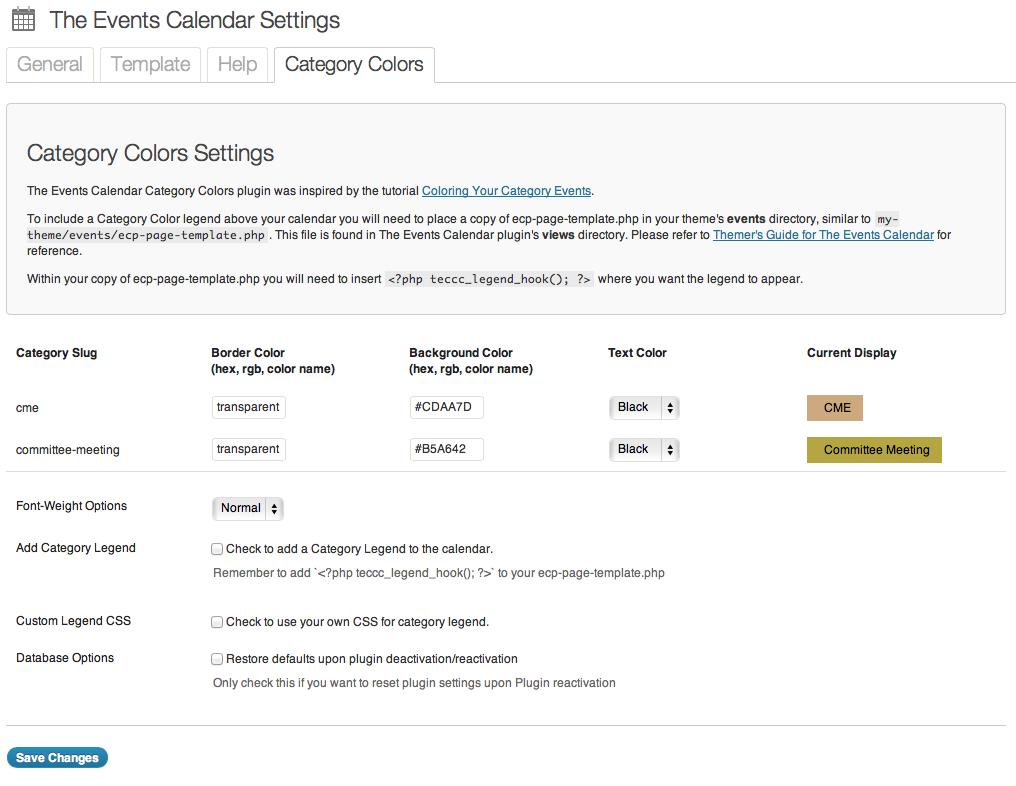
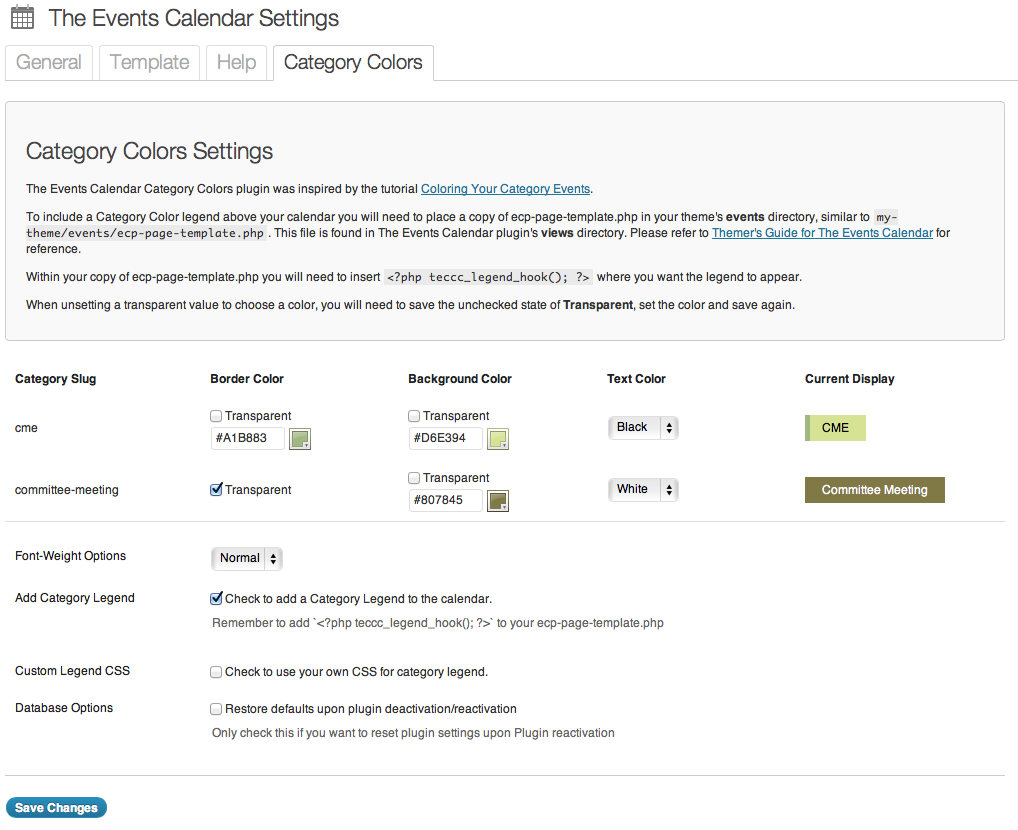
convert to jQuery color picker
lots of checks back and forth to make sure transparent checks and unchecks.
ensure settings correctly stored

diff --git a/the-events-calendar-category-colors.php b/the-events-calendar-category-colors.php
@@ -3,7 +3,7 @@
 Plugin Name: The Events Calendar Category Colors
 Plugin URI: http://wordpress.org/extend/plugins/the-events-calendar-category-colors/
 Description: This plugin adds event category background coloring to <a href="http://wordpress.org/extend/plugins/the-events-calendar/">The Events Calendar</a> plugin.
-Version: 1.3.6
+Version: 1.4
 Text Domain: events-calendar-category-colors
 Author: Andy Fragen
 Author URI: http://thefragens.com/blog/
@@ -45,8 +45,10 @@ License URI: http://www.gnu.org/licenses/old-licenses/gpl-2.0.html
 /* Add your functions below this line */
 
 // 'teccc_' prefix is derived from [tec]the events calendar [c]ategory [c]olors
-define(VERSION, '1.3.6');
-$useMiniColors = false;
+define(VERSION, '1.4');
+$teccc_debug = false;
+
+if ( $teccc_debug ) { var_dump(get_option('teccc_options')); }
 
 add_action( 'plugins_loaded', 'teccc_requires_tec' );
 function teccc_requires_tec() {
@@ -104,7 +106,7 @@ function teccc_write_category_css() {
 			$catCSS[] = '.tribe-events-calendar .cat_' . $slugs[$i] . ' a { color: ' .  $options[$slugs[$i].'-text'] . '; }' ;
 			$catCSS[] = '.cat_' . $slugs[$i] . ', .tribe-events-calendar .cat_' . $slugs[$i] . ', .cat_' . $slugs[$i] . ' > .tribe-events-tooltip .tribe-events-event-title { background-color: ' . $options[$slugs[$i].'-background'] . '; border-left: 5px solid ' . $options[$slugs[$i].'-border'] . ';border-right: 5px solid ' . $options[$slugs[$i].'-background'] . '; color: ' . $options[$slugs[$i].'-text'] . '; }' ;
 		} else {
-		$catCSS[] = '.cat_' . $slugs[$i] . ', .tribe-events-calendar .cat_' . $slugs[$i] . ', .cat_' . $slugs[$i] . ' > .tribe-events-tooltip .tribe-events-event-title { background-color: ' . $options[$slugs[$i].'-background'] . '; border-left: 5px solid ' . $options[$slugs[$i].'-border'] . ';color:#000; }' ;
+		$catCSS[] = '.cat_' . $slugs[$i] . ', .tribe-events-calendar .cat_' . $slugs[$i] . ', .cat_' . $slugs[$i] . ' > .tribe-events-tooltip .tribe-events-event-title { background-color: ' . $options[$slugs[$i].'-background'] . '; border-left: 5px solid ' . $options[$slugs[$i].'-border'] . ';border-right: 5px solid ' . $options[$slugs[$i].'-background'] .'; color: #000; }' ;
 		}
 	}
 	if ( !isset($options['custom_legend_css']) ) {
@@ -154,8 +156,8 @@ function teccc_add_defaults() {
 		delete_option('teccc_options'); // so we don't have to reset all the 'off' checkboxes too! (don't think this is needed but leave for now)
 		for ($i = 0; $i < $count; $i++) {
 			$arr[$slugs[$i].'-text'] = '#000';
-			$arr[$slugs[$i].'-background'] = 'transparent';
-			$arr[$slugs[$i].'-border'] = 'transparent';
+			$arr[$slugs[$i].'-background'] = '#CFCFCF';
+			$arr[$slugs[$i].'-border'] = '#CFCFCF';
 		}
 		$arr['font_weight'] = 'bold';
 		update_option('teccc_options', $arr);
@@ -181,16 +183,18 @@ function teccc_validate_options($input) {
 		// Sanitize textbox input (strip html tags, and escape characters)
 		$input[$slugs[$i].'-background'] =  wp_filter_nohtml_kses($input[$slugs[$i].'-background']);
 		$input[$slugs[$i].'-background'] =  ereg_replace( '[^#A-Za-z0-9]', '', $input[$slugs[$i].'-background'] );
-		if ( $input[$slugs[$i].'-background'] == '' ) { $input[$slugs[$i].'-background'] = 'transparent'; }
+		if ( $input[$slugs[$i].'-background'] == '' ) { $input[$slugs[$i].'-background'] = '#CFCFCF'; }
 		
 		$input[$slugs[$i].'-border'] =  wp_filter_nohtml_kses($input[$slugs[$i].'-border']);
 		$input[$slugs[$i].'-border'] =  ereg_replace( '[^#A-Za-z0-9]', '', $input[$slugs[$i].'-border'] );
-		if ( $input[$slugs[$i].'-border'] == '' ) { $input[$slugs[$i].'-border'] = 'transparent'; }
+		if ( $input[$slugs[$i].'-border'] == '' ) { $input[$slugs[$i].'-border'] = '#CFCFCF'; }
 		
 		// Sanitize dropdown input (make sure value is one of options allowed)
-		if ( !in_array($input[$slugs[$i].'-text'], $teccc_text_colors, true) ) {
-			$input[$slugs[$i].'-text'] = '#000';
-		} 
+		if ( !in_array($input[$slugs[$i].'-text'], $teccc_text_colors, true) ) { $input[$slugs[$i].'-text'] = '#000'; }
+		
+		if ( isset( $input[$slugs[$i].'-border_transparent'] ) ) { $input[$slugs[$i].'-border'] = 'transparent'; }
+		if ( isset( $input[$slugs[$i].'-background_transparent'] ) ) { $input[$slugs[$i].'-background'] = 'transparent'; }
+		
 	}
 	return $input;
 }
@@ -204,10 +208,8 @@ function teccc_is_saved () {
 	}
 }
 
-
 function teccc_options_elements() {
-	global $useMiniColors;
-	global $teccc_text_colors, $teccc_font_weights;
+	global $teccc_text_colors, $teccc_font_weights, $teccc_debug;
 	$slugs = teccc_get_category_slugs();
 	$cat_names = teccc_get_category_names();
 	$count = count($slugs);
@@ -215,34 +217,40 @@ function teccc_options_elements() {
 	$form = array();
 	$form[] = '<table class="form-table">';
 	$form[] = '<style type="text/css">.form-table th { font-size: 12px; }</style>';
-	if ( $useMiniColors ) {
-		$form[] = '<tr><th><strong>Category Slug</strong></th><th><strong>Border Color</strong></th><th><strong>Background Color</strong></th><th><strong>Text Color</strong></th><th><strong>Current Display</strong></th></tr>';
-	} else {
-		$form[] = '<tr><th><strong>Category Slug</strong></th><th><strong>Border Color<br />(hex, rgb, color name)</strong></th><th><strong>Background Color<br />(hex, rgb, color name)</strong></th><th><strong>Text Color</strong></th><th><strong>Current Display</strong></th></tr>';
-	}
+	$form[] = '<tr><th><strong>Category Slug</strong></th><th><strong>Border Color</strong></th><th><strong>Background Color</strong></th><th><strong>Text Color</strong></th><th><strong>Current Display</strong></th></tr>';
 	for ($i = 0; $i < $count; $i++) {
 		$form[] = '<tr>';
 		$form[] = '<td>' . $slugs[$i] . '</td>';
-		if ( $useMiniColors ) {
-			$form[] = '<td><input type="text" class="color-picker" autocomplete="on" size="6" name="teccc_options[' . $slugs[$i] . '-border]" value="' . $options[$slugs[$i].'-border'] . '" /></td>' ;
-			$form[] = '<td><input type="text" class="color-picker" autocomplete="on" size="6" name="teccc_options[' . $slugs[$i] . '-background]" value="' . $options[$slugs[$i].'-background'] . '" /></td>' ;
+		
+		$form[] = '<td><label><input name="teccc_options[' . $slugs[$i].'-border_transparent' . ']" type="checkbox" value="1"' . checked('1', $options[$slugs[$i].'-border_transparent'], false) . ' /> Transparent</label><br />';
+			
+		if ( isset( $options[$slugs[$i].'-border_transparent'] ) ) { 
+			$options[$slugs[$i].'-border'] = 'transparent';			
 		} else {
-			$form[] = '<td><input type="text" size="6" name="teccc_options[' . $slugs[$i] . '-border]" value="' . $options[$slugs[$i].'-border'] . '" /></td>' ;
-			$form[] = '<td><input type="text" size="6" name="teccc_options[' . $slugs[$i] . '-background]" value="' . $options[$slugs[$i].'-background'] . '" /></td>' ;
+			$form[] = '<input type="text" class="color-picker" autocomplete="on" size="6" name="teccc_options[' . $slugs[$i] . '-border]" value="' . $options[$slugs[$i].'-border'] . '" /></td>' ;
 		}
-		$form[] = "<td><select name='teccc_options[" . $slugs[$i] . "-text]'>" ;		
+			
+		$form[] = '<td><label><input name="teccc_options[' . $slugs[$i].'-background_transparent' . ']" type="checkbox" value="1"' . checked('1', $options[$slugs[$i].'-background_transparent'], false) . ' /> Transparent</label><br />';
+			
+		if ( isset( $options[$slugs[$i].'-background_transparent'] ) ) {
+			$options[$slugs[$i].'-background'] = 'transparent';
+		} else {
+			$form[] = '<input type="text" class="color-picker" autocomplete="on" size="6" name="teccc_options[' . $slugs[$i] . '-background]" value="' . $options[$slugs[$i].'-background'] . '" /></td>' ;
+		}
 
+		$form[] = "<td><select name='teccc_options[" . $slugs[$i] . "-text]'>" ;		
 		foreach ($teccc_text_colors as $key => $value) {
 			$form[] = "<option value='$value'" . selected($value, $options[$slugs[$i].'-text'], false) . ">$key</option>";
 		}
 		$form[] = '</select></td>';
-		if(($options[$slugs[$i].'-text'] == '0')) {
+		if ( $options[$slugs[$i].'-text'] == '0' ) {
 			$form[] = '<td><span style="border:1px #ddd solid;background-color:' . $options[$slugs[$i].'-background'] . ';border-left: 5px solid ' . $options[$slugs[$i].'-border'] . ';padding:0.5em 1em;font-weight:' . $options['font_weight'] . ';">' . $cat_names[$i] . '</span></td>';
 		} else {
-			$form[] = '<td><span style="background-color:' . $options[$slugs[$i].'-background'] . ';border-left: 5px solid ' . $options[$slugs[$i].'-border'] . ';color:' . $options[$slugs[$i].'-text'] . ';padding:0.5em 1em;font-weight:' . $options['font_weight'] . ';">' . $cat_names[$i] . '</span></td>';
+			$form[] = '<td><span style="background-color:' . $options[$slugs[$i].'-background'] . ';border-left: 5px solid ' . $options[$slugs[$i].'-border'] . ';border-right: 5px solid ' . $options[$slugs[$i].'-background'] . ';color:' . $options[$slugs[$i].'-text'] . ';padding:0.5em 1em;font-weight:' . $options['font_weight'] . ';">' . $cat_names[$i] . '</span></td>';
 		}
 		$form[] = "</tr>\n";
 	}
+	
 	$form[] = '<tr valign="top" style="border-top:#dddddd 1px solid;"><td colspan="5"></td></tr>';
 	$form[] = '<tr><th scope="row">Font-Weight Options</th>';
 	$form[] = "<td><select name='teccc_options[font_weight]'>" ;

diff --git a/category-colors-settings.php b/category-colors-settings.php
@@ -24,6 +24,10 @@
 			'type' => 'html',
 			'html' => '<p>To include a Category Color legend above your calendar you will need to place a copy of ecp-page-template.php in your theme\'s <strong>events</strong> directory, similar to <code>my-theme/events/ecp-page-template.php</code>. This file is found in The Events Calendar plugin\'s <strong>views</strong> directory. Please refer to <a href="http://tri.be/themers-guide-to-the-events-calendar/">Themer\'s Guide for The Events Calendar</a> for reference.</p><p>Within your copy of ecp-page-template.php you will need to insert <code>&lt;?php teccc_legend_hook(); ?&gt;</code> where you want the legend to appear.'
 			),
+		'transparent' => array(
+			'type' => 'html',
+			'html' => '<p>When unsetting a transparent value to choose a color, you will need to save the unchecked state of <strong>Transparent</strong>, set the color and save again.</p>'
+			), 
 		'info-end' => array(
 			'type' => 'html',
 			'html' => '</div>'
